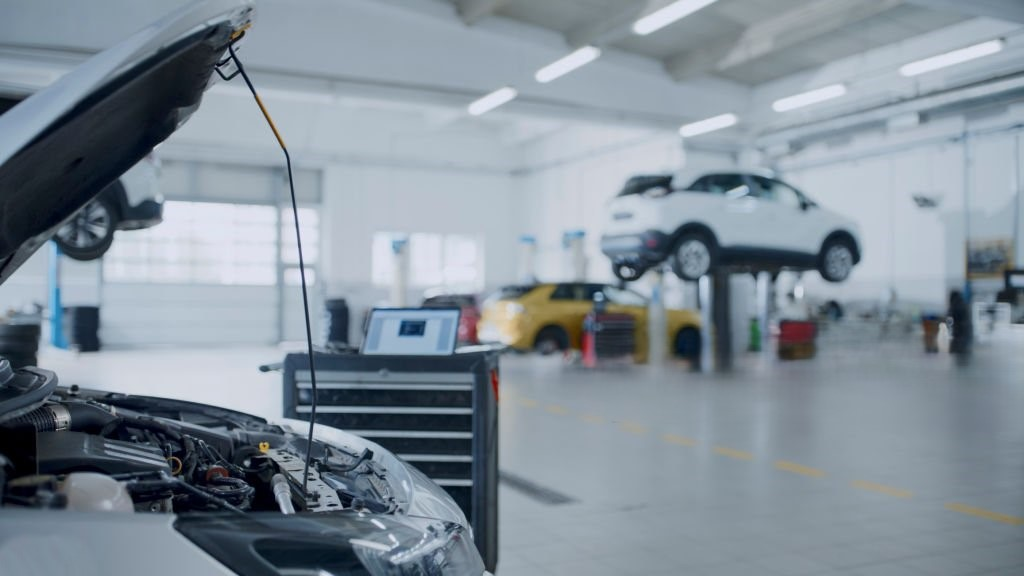
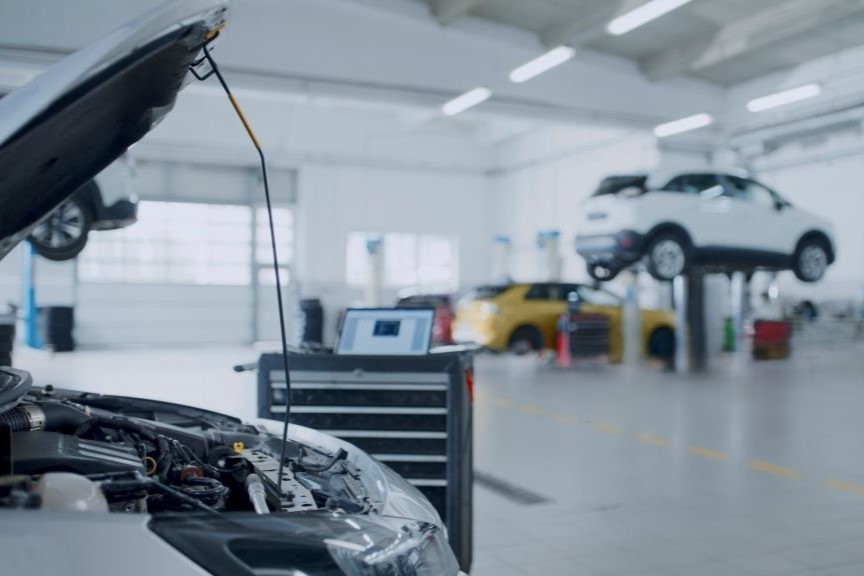
Standardized case study image sizes and limited the homepage to display only 6 case studies

diff --git a/pages/index.tsx b/pages/index.tsx
@@ -1375,6 +1375,27 @@ const Portfolio: React.FC = () => {
   const [showAll, setShowAll] = useState(false); // Add this state
   const HighlightsItems = [
     {
+      title: "Campaign OS – A Precision-Engineered Management Ecosystem for Out-of-Home Advertising",
+      description:
+        "Campaign OS is a comprehensive, end-to-end management platform designed specifically for the Out-of-Home (OOH) advertising industry. Built with React and Supabase, it handles the entire campaign lifecycle from initial briefing and inventory site selection to real-time availability tracking and multi-format financial reporting.",
+      image: "/assets/portfolio/New/Campaign_Porfolio.jpg",
+      alt: "Campaign OS – A Precision-Engineered Management Ecosystem for Out-of-Home Advertising",
+    },
+    {
+      title: "Macromascot – Gamifying Health Consistency with AI and Digital Companions",
+      description:
+        "Macromascot is a comprehensive mobile health application designed to transform weight management by merging rigorous utility with gamification. Unlike traditional trackers, the platform utilizes an AI-powered meal logging system and an engaging Tamagotchi-style avatar system to drive user retention. By linking health consistency directly to the evolution of a digital companion, the app turns routine tracking into an emotional investment.",
+      image: "/assets/portfolio/New/Health_app.jpg",
+      alt: "Macromascot – Gamifying Health Consistency with AI and Digital Companions",
+    },
+    {
+      title: "DADS Sales Reborn – Rebuilding Multi-Location Automotive Intelligence from Broken SaaS Data",
+      description:
+        "DADS Sales Reborn is a centralized operational intelligence platform built for a multi-location automotive repair business operating across multiple US states. We rebuilt an unreliable prototype into a scalable data aggregation and analytics system, capable of handling incomplete APIs, inconsistent data, and real-world automotive edge cases. The system consolidates sales, repair orders, inspections, work-in-progress, and profitability signals into one executive dashboard.",
+      image: "/assets/portfolio/New/DADS_Sales_Reborn.jpg",
+      alt: "DADS Sales Reborn – Multi-Location Automotive Intelligence Platform",
+    },
+    {
       title: "Pack Assist – Revolutionizing Packaging Sales with a Cost-Optimized AI Agent",
       description:
         "Pack Assist is an advanced AI-Assisted Sales Qualification Chatbot for the packaging industry. We upgraded the system to a Python FastAPI backend, implemented a cost-saving hybrid architecture (static qualification before AI), a Zendesk-style agent dashboard, RAG-based fact-checking to eliminate AI hallucinations, and weekend automation—delivered in 8 weeks.",
@@ -1394,63 +1415,6 @@ const Portfolio: React.FC = () => {
         "Tech Emulsion built Podcast Beacon to let podcasters gather every important link on one branded page. Users launch multiple landing pages, showcase episodes, merch, and services, and accept payments through the built-in checkout. A secure login and clean admin panel make it simple to manage products, track clicks, and refresh content in seconds. By turning scattered links into a single beacon, the platform boosts listener engagement and converts profile traffic into revenue.",
       image: "/assets/portfolio/mic.jpg",
       alt: "Podcast Beacon – Link-in-Bio SaaS Hub for Podcasters",
-    },
-    {
-      title: "Rack Room – Business resource management system",
-      description:
-        "Rackroom is a tailored, secure, and scalable application built for a single owner to manage their business's resources. It supports booking management with complex date/time calculations, client and engineer tracking, financial calculations, and automated SMS notifications via Twilio. The Gantt chart dashboard and event logs provide the owner with clear visibility and control. Built with a modern tech stack and a robust database schema, Rackroom is optimized for the owner's specific business needs, with flexibility for future enhancements.",
-      image: "/assets/portfolio/download.jpg",
-      alt: "Rack Room – Business resource management system",
-    },
-    {
-      title: "Content Compass – LinkedIn content analysis and inspiration tool",
-      description:
-        "This tool helps users get inspired by top LinkedIn creators and level up their own content game. Users can create a personalized dashboard by entering the LinkedIn profiles they want to follow. The system scrapes those profiles every 3 days (or on demand) and collects all types of post formats including text, carousels, videos, images, multi-image posts, reshared and reposted content. We analyze the posts using OpenAI's LLM to detect tone, writing patterns, common hooks, CTAs, and engagement trends. Users get insights into what works and why and can use the AI to generate similar posts based on their favorite creators. The AI suggests engaging hooks and helps users write complete posts tailored to their voice. A built-in analytics panel also compares tone and engagement across different creators to help users understand what content styles perform best. This will be offered on a subscription basis with no current limits on creators or post generations.",
-      image: "/assets/portfolio/linkedin.jpg",
-      alt: "Content Compass – LinkedIn content analysis and inspiration tool",
-    },
-    {
-      title: "SuperHeart – AI-powered nutrition tracking mobile app",
-      description:
-        "SuperHeart is a food coach in your pocket. It helps you choose meals that keep your heart happy. You can log meals by photo, words, or search. The app uses AI (smart computer brain) to guess food details. It shows calories and macros (big nutrients like protein, carbs, fats) right away. he dashboard tracks water, fiber, sugar and other targets for each day. Colored rings tell you what you still need or should limit. You can tap a meal for deeper facts and helpful notes. Reminders nudge you to eat, weigh in, or read small health tips. A profile page stores streaks, premium status, and account settings. Extra tabs show chat help and long-term progress. Everything runs in React Native, so one code serves iOS and Android. Supabase holds user data and handles sign-in and sync. This stack keeps costs low and updates fast.",
-      image: "/assets/portfolio/food.webp",
-      alt: "SuperHeart – AI-powered nutrition tracking mobile app",
-    },
-    {
-      title: "Atarim – A SaaS tool for visual collaboration & project mgmt",
-      description:
-        "Tech Emulsion transformed WPFeedback into Atarim, a scalable SaaS platform for visual collaboration on any website. With new features, a Chrome extension, custom scraping, AWS scaling, and performance optimizations, we helped Atarim secure $500K funding and expand to a universal project management tool.",
-      image: "/assets/portfolio/atarim.png",
-      alt: "Atarim – A SaaS tool for visual collaboration & project mgmt",
-    },
-    {
-      title:
-        "JarvisReach – SaaS for LinkedIn prospecting, data extraction & email outreach",
-      description:
-        "Tech Emulsion developed JarvisReach, a SaaS for LinkedIn prospecting, enabling efficient data extraction, filtering, and automated email outreach. With subscription flexibility, team leaderboards, and admin analytics, JarvisReach streamlines lead management and boosts user productivity.",
-      image: "/assets/portfolio/jarvis.png",
-      alt: "JarvisReach – SaaS for LinkedIn prospecting, data extraction & email outreach",
-    },
-    {
-      title: "DADS Sales Reborn – Rebuilding Multi-Location Automotive Intelligence from Broken SaaS Data",
-      description:
-        "DADS Sales Reborn is a centralized operational intelligence platform built for a multi-location automotive repair business operating across multiple US states. We rebuilt an unreliable prototype into a scalable data aggregation and analytics system, capable of handling incomplete APIs, inconsistent data, and real-world automotive edge cases. The system consolidates sales, repair orders, inspections, work-in-progress, and profitability signals into one executive dashboard.",
-      image: "/assets/portfolio/New/DADS_Sales_Reborn.jpg",
-      alt: "DADS Sales Reborn – Multi-Location Automotive Intelligence Platform",
-    },
-    {
-      title: "Macromascot – Gamifying Health Consistency with AI and Digital Companions",
-      description:
-        "Macromascot is a comprehensive mobile health application designed to transform weight management by merging rigorous utility with gamification. Unlike traditional trackers, the platform utilizes an AI-powered meal logging system and an engaging Tamagotchi-style avatar system to drive user retention. By linking health consistency directly to the evolution of a digital companion, the app turns routine tracking into an emotional investment.",
-      image: "/assets/portfolio/New/Health_app.jpg",
-      alt: "Macromascot – Gamifying Health Consistency with AI and Digital Companions",
-    },
-    {
-      title: "Campaign OS – A Precision-Engineered Management Ecosystem for Out-of-Home Advertising",
-      description:
-        "Campaign OS is a comprehensive, end-to-end management platform designed specifically for the Out-of-Home (OOH) advertising industry. Built with React and Supabase, it handles the entire campaign lifecycle from initial briefing and inventory site selection to real-time availability tracking and multi-format financial reporting.",
-      image: "/assets/portfolio/New/Campaign_Porfolio.jpg",
-      alt: "Campaign OS – A Precision-Engineered Management Ecosystem for Out-of-Home Advertising",
     },
   ];
 

diff --git a/pages/portfolio.tsx b/pages/portfolio.tsx
@@ -45,6 +45,27 @@ const Services = () => {
 
   const HighlightsItems = [
     {
+      title: "Campaign OS – A Precision-Engineered Management Ecosystem for Out-of-Home Advertising",
+      description:
+        "Campaign OS is a comprehensive, end-to-end management platform designed specifically for the Out-of-Home (OOH) advertising industry. Built with React and Supabase, it handles the entire campaign lifecycle from initial briefing and inventory site selection to real-time availability tracking and multi-format financial reporting. The platform emphasizes data accuracy, role-based visibility, and high-fidelity automated exports.",
+      image: "/assets/portfolio/New/Campaign_Porfolio.jpg",
+      alt: "Campaign OS – A Precision-Engineered Management Ecosystem for Out-of-Home Advertising",
+    },
+    {
+      title: "Macromascot – Gamifying Health Consistency with AI and Digital Companions",
+      description:
+        "Macromascot is a comprehensive mobile health application designed to transform weight management by merging rigorous utility with gamification. Unlike traditional trackers, the platform utilizes an AI-powered meal logging system and an engaging Tamagotchi-style avatar system to drive user retention. By linking health consistency directly to the evolution of a digital companion, the app turns routine tracking into an emotional investment.",
+      image: "/assets/portfolio/New/Health_app.jpg",
+      alt: "Macromascot – Gamifying Health Consistency with AI and Digital Companions",
+    },
+    {
+      title: "DADS Sales Reborn – Rebuilding Multi-Location Automotive Intelligence from Broken SaaS Data",
+      description:
+        "DADS Sales Reborn is a centralized operational intelligence platform built for a multi-location automotive repair business operating across multiple US states. We rebuilt an unreliable prototype into a scalable data aggregation and analytics system, capable of handling incomplete APIs, inconsistent data, and real-world automotive edge cases. The system consolidates sales, repair orders, inspections, work-in-progress, and profitability signals into one executive dashboard, with AI-driven automation planned as a second phase.",
+      image: "/assets/portfolio/New/DADS_Sales_Reborn.jpg",
+      alt: "DADS Sales Reborn – Multi-Location Automotive Intelligence Platform",
+    },
+    {
       title: "Pack Assist – Revolutionizing Packaging Sales with a Cost-Optimized AI Agent",
       description:
         "Pack Assist is an advanced AI-Assisted Sales Qualification Chatbot for the packaging industry. We upgraded the system to a Python FastAPI backend, implemented a cost-saving hybrid architecture (static qualification before AI), a Zendesk-style agent dashboard, RAG-based fact-checking to eliminate AI hallucinations, and weekend automation—delivered in 8 weeks.",
@@ -159,27 +180,6 @@ const Services = () => {
         "This end-to-end RAG application allows users to interact with documents by uploading PDFs and asking questions. It uses advanced AI techniques to extract, understand, and answer queries with remarkable accuracy. The system leverages OpenAI's LLMs, pgvector for similarity search, and image recognition for graphical content, offering an intelligent and intuitive document query experience.",
       image: "/assets/portfolio/raggenai.png",
       alt: "RAG – AI-Powered Document Querying Application",
-    },
-    {
-      title: "DADS Sales Reborn – Rebuilding Multi-Location Automotive Intelligence from Broken SaaS Data",
-      description:
-        "DADS Sales Reborn is a centralized operational intelligence platform built for a multi-location automotive repair business operating across multiple US states. We rebuilt an unreliable prototype into a scalable data aggregation and analytics system, capable of handling incomplete APIs, inconsistent data, and real-world automotive edge cases. The system consolidates sales, repair orders, inspections, work-in-progress, and profitability signals into one executive dashboard, with AI-driven automation planned as a second phase.",
-      image: "/assets/portfolio/New/DADS_Sales_Reborn.jpg",
-      alt: "DADS Sales Reborn – Multi-Location Automotive Intelligence Platform",
-    },
-    {
-      title: "Macromascot – Gamifying Health Consistency with AI and Digital Companions",
-      description:
-        "Macromascot is a comprehensive mobile health application designed to transform weight management by merging rigorous utility with gamification. Unlike traditional trackers, the platform utilizes an AI-powered meal logging system and an engaging Tamagotchi-style avatar system to drive user retention. By linking health consistency directly to the evolution of a digital companion, the app turns routine tracking into an emotional investment.",
-      image: "/assets/portfolio/New/Health_app.jpg",
-      alt: "Macromascot – Gamifying Health Consistency with AI and Digital Companions",
-    },
-    {
-      title: "Campaign OS – A Precision-Engineered Management Ecosystem for Out-of-Home Advertising",
-      description:
-        "Campaign OS is a comprehensive, end-to-end management platform designed specifically for the Out-of-Home (OOH) advertising industry. Built with React and Supabase, it handles the entire campaign lifecycle from initial briefing and inventory site selection to real-time availability tracking and multi-format financial reporting. The platform emphasizes data accuracy, role-based visibility, and high-fidelity automated exports.",
-      image: "/assets/portfolio/New/Campaign_Porfolio.jpg",
-      alt: "Campaign OS – A Precision-Engineered Management Ecosystem for Out-of-Home Advertising",
     },
   ];
 
